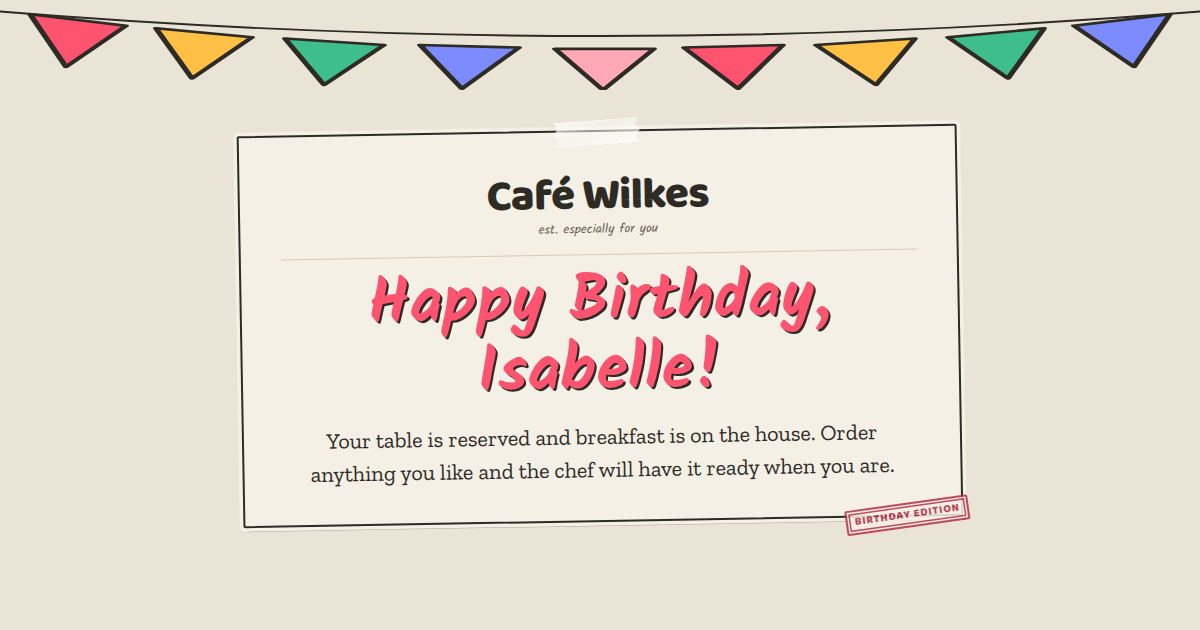
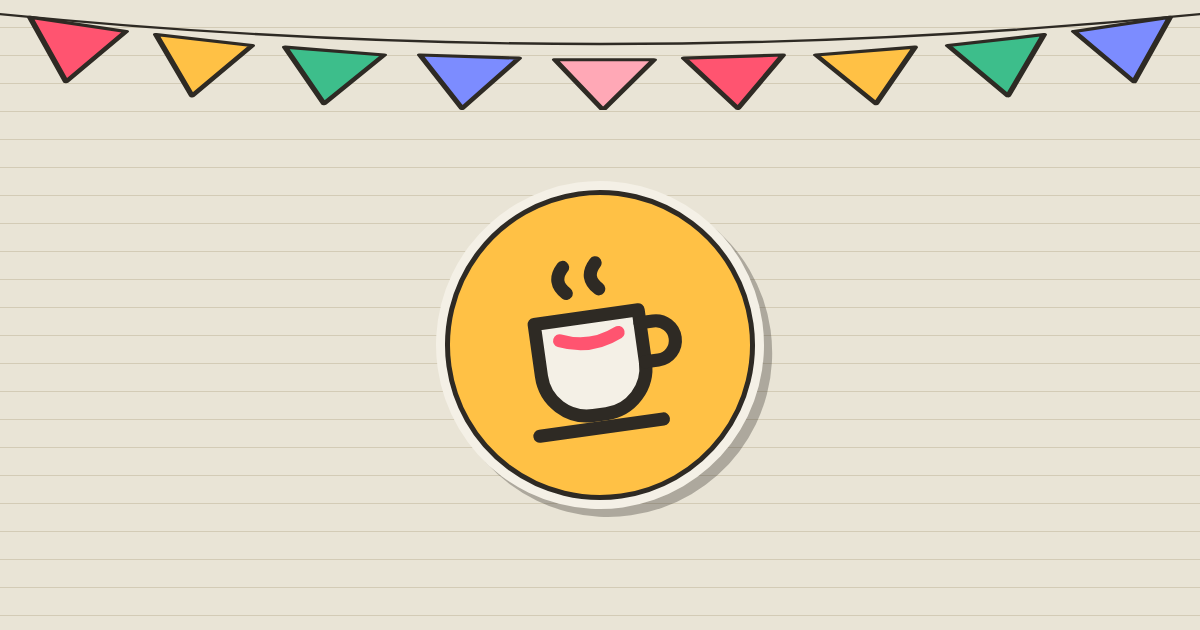
feat: Styling

diff --git a/frontend/menu.js b/frontend/menu.js
@@ -5,54 +5,54 @@ const GRIDDLE_TOPPINGS = {
 };
 
 export const DRINKS = [
-  { id: 'vanilla-latte', name: 'Vanilla Latte', doodle: 'cup', price: [1, 'kiss'] },
-  { id: 'iced-vanilla-latte', name: 'Iced Vanilla Latte', doodle: 'iced', price: [1, 'kiss'] },
-  { id: 'raspberry-mocha', name: 'Raspberry Mocha Latte', doodle: 'cup', price: [2, 'kiss'] },
-  { id: 'iced-raspberry-mocha', name: 'Iced Raspberry Mocha Latte', doodle: 'iced', price: [2, 'kiss'] },
-  { id: 'acv-tea', name: 'Apple Cider Vinegar Tea', desc: 'In case you’re feeling a bit off', doodle: 'tea', price: [1, 'hug'] },
-  { id: 'cappuccino', name: 'Cappuccino', doodle: 'cup', price: [1, 'kiss'] },
-  { id: 'mimosa', name: 'Mimosa', desc: 'Prosecco & orange juice', doodle: 'flute', price: [1, 'slow dance'] },
-  { id: 'aperol-spritz', name: 'Aperol Spritz', desc: 'Aperol, prosecco & soda', doodle: 'spritz', price: [1, 'slow dance'] },
+  { id: 'vanilla-latte', name: 'Vanilla Latte', doodle: { name: 'cup', x: 84, tilt: 12, size: 38 }, price: [1, 'kiss'] },
+  { id: 'iced-vanilla-latte', name: 'Iced Vanilla Latte', price: [1, 'kiss'] },
+  { id: 'raspberry-mocha', name: 'Raspberry Mocha Latte', price: [2, 'kiss'] },
+  { id: 'iced-raspberry-mocha', name: 'Iced Raspberry Mocha Latte', doodle: { name: 'iced', x: 20, tilt: -10, size: 34 }, price: [2, 'kiss'] },
+  { id: 'acv-tea', name: 'Apple Cider Vinegar Tea', desc: 'In case you’re feeling a bit off', price: [1, 'hug'] },
+  { id: 'cappuccino', name: 'Cappuccino', price: [1, 'kiss'] },
+  { id: 'mimosa', name: 'Mimosa', desc: 'Prosecco & orange juice', price: [1, 'slow dance'] },
+  { id: 'aperol-spritz', name: 'Aperol Spritz', desc: 'Aperol, prosecco & soda', doodle: { name: 'spritz', x: 62, tilt: 8, size: 40 }, price: [1, 'slow dance'] },
 ];
 
 export const SECTIONS = [
   {
-    id: 'sweet', title: 'Sweet', fill: 'var(--blossom)', doodle: 'pancakes', note: 'Pick as many as you like',
+    id: 'sweet', title: 'Sweet', fill: 'var(--blossom)', note: 'Pick as many as you like',
     items: [
-      { id: 'pancakes', name: 'Pancakes', doodle: 'pancakes', price: [3, 'kiss'], options: [GRIDDLE_TOPPINGS] },
-      { id: 'waffles', name: 'Waffles', doodle: 'waffle', price: [3, 'kiss'], options: [GRIDDLE_TOPPINGS] },
-      { id: 'crepes', name: 'Crêpes', doodle: 'crepe', price: [3, 'kiss'], options: [GRIDDLE_TOPPINGS] },
-      { id: 'french-toast', name: 'French Toast', doodle: 'frenchToast', price: [3, 'kiss'], options: [GRIDDLE_TOPPINGS] },
+      { id: 'pancakes', name: 'Pancakes', doodle: { name: 'pancakes', x: 88, tilt: -8, size: 40 }, price: [3, 'kiss'], options: [GRIDDLE_TOPPINGS] },
+      { id: 'waffles', name: 'Waffles', price: [3, 'kiss'], options: [GRIDDLE_TOPPINGS] },
+      { id: 'crepes', name: 'Crêpes', doodle: { name: 'crepe', x: 32, tilt: 14, size: 32 }, price: [3, 'kiss'], options: [GRIDDLE_TOPPINGS] },
+      { id: 'french-toast', name: 'French Toast', price: [3, 'kiss'], options: [GRIDDLE_TOPPINGS] },
     ],
   },
   {
-    id: 'bakery', title: 'Bakery Case', fill: 'var(--marigold)', doodle: 'croissant', note: 'Not homemade',
+    id: 'bakery', title: 'Bakery Case', fill: 'var(--marigold)', note: 'Not homemade',
     items: [
-      { id: 'cinnamon-buns', name: 'Cinnamon Buns', doodle: 'bun', price: [1, 'hug'], storeBought: true },
-      { id: 'croissant', name: 'Plain Croissant', doodle: 'croissant', price: [1, 'hug'], storeBought: true },
-      { id: 'choc-croissant', name: 'Chocolate Croissant', doodle: 'croissant', price: [1, 'hug'], storeBought: true },
+      { id: 'cinnamon-buns', name: 'Cinnamon Buns', price: [1, 'hug'], storeBought: true },
+      { id: 'croissant', name: 'Plain Croissant', price: [1, 'hug'], storeBought: true },
+      { id: 'choc-croissant', name: 'Chocolate Croissant', doodle: { name: 'croissant', x: 72, tilt: -6, size: 38 }, price: [1, 'hug'], storeBought: true },
     ],
   },
   {
-    id: 'savoury', title: 'Savoury', fill: 'var(--jade)', doodle: 'egg', note: 'Pick as many as you like',
+    id: 'savoury', title: 'Savoury', fill: 'var(--jade)', note: 'Pick as many as you like',
     items: [
       {
-        id: 'toast', name: 'Toast', doodle: 'toast', price: [1, 'kiss'],
+        id: 'toast', name: 'Toast', price: [1, 'kiss'],
         options: [{ key: 'spread', label: 'Topped with', type: 'multi', required: true, missing: 'Toast: pick a topping (plain counts)',
           choices: ['Avocado', 'Nutella', 'Peanut butter', 'Fruit jelly', 'Plain'] }],
       },
       {
-        id: 'eggs', name: 'Eggs', doodle: 'egg', price: [2, 'kiss'],
+        id: 'eggs', name: 'Eggs', doodle: { name: 'egg', x: 14, tilt: 10, size: 36 }, price: [2, 'kiss'],
         options: [{ key: 'style', label: 'How would you like them?', type: 'text', required: true,
           missing: 'Eggs: how would you like them cooked?', placeholder: 'e.g. two, over easy' }],
       },
       {
-        id: 'benny', name: 'Eggs Benedict', desc: 'Poached eggs, hollandaise, English muffin', doodle: 'benny', price: [1, 'foot rub'],
+        id: 'benny', name: 'Eggs Benedict', desc: 'Poached eggs, hollandaise, English muffin', price: [1, 'foot rub'],
         options: [{ key: 'toppings', label: 'Toppings', type: 'multi',
           choices: ['Ham', 'Bacon', 'Avocado', 'Tomato', 'Spinach', 'Extra hollandaise'] }],
       },
       {
-        id: 'sandwich', name: 'Breakfast Sandwich', doodle: 'sandwich', price: [2, 'hug'],
+        id: 'sandwich', name: 'Breakfast Sandwich', price: [2, 'hug'],
         options: [
           { key: 'bread', label: 'On a', type: 'single', required: true, missing: 'Breakfast Sandwich: pick a bread',
             choices: ['English muffin', 'Bagel', 'Croissant'] },
@@ -60,33 +60,33 @@ export const SECTIONS = [
         ],
       },
       {
-        id: 'bagel', name: 'Bagel & Cream Cheese', doodle: 'bagel', price: [1, 'hug'],
+        id: 'bagel', name: 'Bagel & Cream Cheese', price: [1, 'hug'],
         options: [{ key: 'extras', label: 'Extras', type: 'multi',
           choices: ['Tomato', 'Cucumber', 'Red onion', 'Everything seasoning'] }],
       },
       {
-        id: 'burrito', name: 'Breakfast Burrito', doodle: 'burrito', price: [1, 'back scratch'],
+        id: 'burrito', name: 'Breakfast Burrito', doodle: { name: 'burrito', x: 84, tilt: -14, size: 38 }, price: [1, 'back scratch'],
         options: [{ key: 'fillings', label: 'Fillings', type: 'multi',
           choices: ['Egg', 'Cheese', 'Hashbrown', 'Bacon', 'Sausage', 'Avocado', 'Salsa', 'Sour cream', 'Hot sauce'] }],
       },
     ],
   },
   {
-    id: 'sides', title: 'Sides', fill: 'var(--peri)', doodle: 'bacon', note: 'Pile them on',
+    id: 'sides', title: 'Sides', fill: 'var(--peri)', note: 'Pile them on',
     items: [
-      { id: 'hashbrowns', name: 'Hashbrowns', doodle: 'hashbrown', price: [1, 'kiss'] },
-      { id: 'sausage', name: 'Sausage', doodle: 'sausage', price: [1, 'kiss'] },
-      { id: 'bacon', name: 'Bacon', doodle: 'bacon', price: [1, 'kiss'] },
+      { id: 'hashbrowns', name: 'Hashbrowns', price: [1, 'kiss'] },
+      { id: 'sausage', name: 'Sausage', price: [1, 'kiss'] },
+      { id: 'bacon', name: 'Bacon', doodle: { name: 'bacon', x: 42, tilt: 8, size: 34 }, price: [1, 'kiss'] },
     ],
   },
   {
-    id: 'girl', title: 'Girl Breakfast', fill: 'var(--coral)', doodle: 'pint', note: 'No judgement here',
+    id: 'girl', title: 'Girl Breakfast', fill: 'var(--coral)', note: 'No judgement here',
     items: [
-      { id: 'ben-jerrys', name: "Ben & Jerry's", doodle: 'pint', price: [1, 'cuddle'] },
-      { id: 'sv-chips', name: 'Salt & Vinegar Chips', doodle: 'chips', price: [1, 'cuddle'] },
-      { id: 'takis', name: 'Takis', doodle: 'chips', price: [1, 'cuddle'] },
-      { id: 'oreos', name: 'Oreos', doodle: 'oreo', price: [1, 'cuddle'] },
-      { id: 'digestives', name: 'Digestive Cookies', doodle: 'cookie', price: [1, 'cuddle'] },
+      { id: 'ben-jerrys', name: "Ben & Jerry's", doodle: { name: 'pint', x: 78, tilt: -10, size: 38 }, price: [1, 'cuddle'] },
+      { id: 'sv-chips', name: 'Salt & Vinegar Chips', price: [1, 'cuddle'] },
+      { id: 'takis', name: 'Takis', doodle: { name: 'chips', x: 24, tilt: 12, size: 32 }, price: [1, 'cuddle'] },
+      { id: 'oreos', name: 'Oreos', price: [1, 'cuddle'] },
+      { id: 'digestives', name: 'Digestive Cookies', price: [1, 'cuddle'] },
     ],
   },
 ];

diff --git a/frontend/doodles.js b/frontend/doodles.js
@@ -6,16 +6,10 @@ export const DOODLES = {
   cup: svg(`<path d="M12 3.5q-2 2 0 4M17 3.5q-2 2 0 4"/>
     <path d="M6.5 11.5h16v8a7 7 0 0 1-7 7h-2a7 7 0 0 1-7-7z" fill="#e3c19a"/>
     <path d="M22.5 13.5h2a3 3 0 0 1 0 6h-2"/><path d="M5 28.5h19"/>`),
-  tea: svg(`<path d="M5.5 13.5h18v4a8 8 0 0 1-8 8h-2a8 8 0 0 1-8-8z" fill="#f4f0e6"/>
-    <path d="M23.5 15h1.5a2.8 2.8 0 0 1 0 5.6h-2"/><path d="M14 13.5c0-4 3-6 6-5.5v5"/>
-    <rect x="17.5" y="5.5" width="5" height="5" fill="#3dbe8b"/><path d="M4 28.5h21"/>`),
   iced: svg(`<path d="M20 2.5l-2.5 12" stroke="#ff5470" stroke-width="2.6"/>
     <path d="M8 9.5h16l-2 18h-12z" fill="#dcebf0"/>
     <rect x="11" y="15" width="4.5" height="4.5" fill="#fff" transform="rotate(-10 13 17)"/>
     <rect x="16.5" y="19" width="4.5" height="4.5" fill="#fff" transform="rotate(12 18 21)"/>`),
-  flute: svg(`<path d="M11.5 3.5h9l-1 11a3.5 3.5 0 0 1-7 0z" fill="#ffc145"/>
-    <path d="M16 18v9M12 28h8"/><circle cx="15" cy="9" r=".8" fill="#2e2a24" stroke="none"/>
-    <circle cx="17.5" cy="12" r=".8" fill="#2e2a24" stroke="none"/>`),
   spritz: svg(`<path d="M8.5 6.5h15q0 11-7.5 11.5q-7.5-.5-7.5-11.5z" fill="#ff8a3d"/>
     <path d="M16 18v8.5M11 27.5h10"/><circle cx="22" cy="6" r="3.5" fill="#ffc145"/><path d="M22 3v6M19 6h6"/>`),
   pancakes: svg(`<rect x="4.5" y="22.5" width="23" height="5" rx="2.5" fill="#f1c27d"/>
@@ -23,45 +17,18 @@ export const DOODLES = {
     <rect x="6.5" y="12.5" width="19" height="5" rx="2.5" fill="#f1c27d"/>
     <path d="M9 13c3-1 9-1 13 0v3.5q-1 1.5-2 0v-1.5q-1 3-2.2 0" fill="#b86a2c"/>
     <rect x="13" y="8" width="6" height="4.5" fill="#ffc145"/>`),
-  waffle: svg(`<rect x="5" y="5" width="22" height="22" rx="3" fill="#f1c27d" transform="rotate(-6 16 16)"/>
-    <g transform="rotate(-6 16 16)"><path d="M12.3 5v22M19.7 5v22M5 12.3h22M5 19.7h22"/></g>`),
   crepe: svg(`<path d="M4 25.5h24L16 7z" fill="#f5d7a1"/><path d="M16 7l-3 18.5"/>
     <circle cx="21" cy="21" r="2.5" fill="#ff5470"/>`),
-  frenchToast: svg(`<path d="M7 27V14a6 6 0 0 1 3-9h12a6 6 0 0 1 3 9v13z" fill="#e6a85c"/>
-    <path d="M10 11h12" stroke-dasharray="0 4"/><path d="M11 16h10v3q-1 2-2 0v-1q-1 3-2.5 0" fill="#b86a2c"/>`),
-  toast: svg(`<path d="M7 27V14a6 6 0 0 1 3-9h12a6 6 0 0 1 3 9v13z" fill="#e6b36b"/>
-    <path d="M10.5 25.5v-10a4 4 0 0 1 2-6.5h7a4 4 0 0 1 2 6.5v10z" fill="#f6dfae" stroke="none"/>`),
-  bun: svg(`<circle cx="16" cy="16" r="11.5" fill="#d9a066"/>
-    <path d="M16 16a1.8 1.8 0 1 1 1.8 1.8a4.2 4.2 0 1 1-4.2-4.2a6.6 6.6 0 1 1 6.6 6.6"/>
-    <path d="M8 9q3-2 5 0t5 0t5 1" stroke="#fff" stroke-width="2.4"/>`),
   croissant: svg(`<path d="M3.5 21Q16 3 28.5 21q-6-3-12.5-2.5Q9.5 18 3.5 21z" fill="#e8a857"/>
     <path d="M10.5 12.5l2.5 6M16 10v8.5M21.5 12.5l-2.5 6"/>`),
   egg: svg(`<path d="M5.5 16q0-9 9-9.5q5-3 9.5 1.5q4.5 4 2.5 9.5q.5 8-8 8.5q-5 3-9.5-1q-4-2-3.5-9z" fill="#fffdf6"/>
     <circle cx="16" cy="16" r="4.5" fill="#ffc145"/>`),
-  benny: svg(`<ellipse cx="16" cy="24" rx="11.5" ry="4" fill="#e6b36b"/>
-    <path d="M7.5 22.5q0-10 8.5-10t8.5 10z" fill="#fffdf6"/><path d="M9 17q7-7 14 0q-1 3-2.5 0q-2 3-3.5 0q-2 3-4 0q-2 2-4 0z" fill="#ffc145"/>`),
-  sandwich: svg(`<path d="M5 14.5q0-8 11-8t11 8z" fill="#e6b36b"/>
-    <path d="M4 17l3-2.5 3 2.5 3-2.5 3 2.5 3-2.5 3 2.5 3-2.5 3 2.5" stroke="#3dbe8b" stroke-width="2.4"/>
-    <path d="M5 19.5h22l-4 3z" fill="#ffc145"/><rect x="5" y="22.5" width="22" height="5" rx="2.5" fill="#e6b36b"/>`),
-  bagel: svg(`<circle cx="16" cy="16" r="11.5" fill="#d9a066"/><circle cx="16" cy="16" r="3.5" fill="#f4f0e6"/>
-    <path d="M9 11l1 1M20 8.5l1.2.4M23 18l-.5 1.2M12 22l1 .8" stroke-width="1.6"/>`),
   burrito: svg(`<g transform="rotate(-28 16 16)"><rect x="3.5" y="10.5" width="25" height="11" rx="5.5" fill="#f1d9a8"/>
     <ellipse cx="25.5" cy="16" rx="3" ry="5.5" fill="#3dbe8b"/><path d="M10 11v10M15 11v10" stroke-width="1.4"/></g>`),
-  hashbrown: svg(`<rect x="4.5" y="8.5" width="23" height="15" rx="6" fill="#e0a84e" transform="rotate(-8 16 16)"/>
-    <path d="M9 13l3 4M13 11.5l4 5M18 11l3.5 4.5M21.5 11.5l2 2.5" stroke-width="1.6"/>`),
-  sausage: svg(`<rect x="3.5" y="11.5" width="25" height="9" rx="4.5" fill="#b5563e" transform="rotate(-20 16 16)"/>
-    <path d="M9 17.5q5-4 12-5" stroke="#f4f0e6" stroke-width="1.6" transform="rotate(-6 16 16)"/>`),
   bacon: svg(`<path d="M3.5 12q4-4 8 0t8 0t9-1v8q-5 1-9 1t-8 0t-8 0z" fill="#ff5470"/>
     <path d="M5 16.5q3.5-3 7 0t7 0t8-.8" stroke="#fbe3e3" stroke-width="1.8"/>`),
   pint: svg(`<path d="M7.5 11.5h17l-2 16h-13z" fill="#ffa8b6"/><rect x="6.5" y="7.5" width="19" height="4" rx="1" fill="#f4f0e6"/>
     <path d="M9 17.5h14l-.6 5h-12.8z" fill="#fff"/>`),
   chips: svg(`<path d="M8.5 4.5h15l-1 3 1 3v14l1 3h-17l1-3v-14l-1-3z" fill="#7c8cff"/>
     <circle cx="16" cy="17" r="4" fill="#ffc145"/><path d="M8.5 7.5h15M8.5 24.5h15" stroke-dasharray="1 2" stroke-width="1.4"/>`),
-  cookie: svg(`<circle cx="16" cy="16" r="11.5" fill="#d9a066"/>
-    <circle cx="12" cy="12" r="1.3" fill="#2e2a24" stroke="none"/><circle cx="19" cy="11" r="1.3" fill="#2e2a24" stroke="none"/>
-    <circle cx="20" cy="19" r="1.3" fill="#2e2a24" stroke="none"/><circle cx="12.5" cy="19.5" r="1.3" fill="#2e2a24" stroke="none"/>`),
-  oreo: svg(`<rect x="4.5" y="9.5" width="23" height="6" rx="3" fill="#3b2f2a"/><rect x="5.5" y="15.5" width="21" height="3" fill="#fffdf6"/>
-    <rect x="4.5" y="18.5" width="23" height="6" rx="3" fill="#3b2f2a"/>`),
-  bell: svg(`<path d="M5.5 23.5a10.5 10.5 0 0 1 21 0z" fill="#ffc145"/><path d="M3.5 26.5h25"/>
-    <circle cx="16" cy="10.5" r="1.8" fill="#2e2a24"/><path d="M11 17.5a6 6 0 0 1 3-3" stroke="#fff"/>`),
 };

diff --git a/frontend/app.js b/frontend/app.js
@@ -1,6 +1,6 @@
-import { NTFY_TOPIC, STORAGE_KEY } from './config.js';
-import { DOODLES } from './doodles.js';
-import { DRINKS, SECTIONS, SERVE_TIMES, PLACES, ITEMS, DRINKS_BY_ID } from './menu.js';
+import { NTFY_TOPIC, STORAGE_KEY } from './config.js?v=__BUILD__';
+import { DOODLES } from './doodles.js?v=__BUILD__';
+import { DRINKS, SECTIONS, SERVE_TIMES, PLACES, ITEMS, DRINKS_BY_ID } from './menu.js?v=__BUILD__';
 
 const $ = sel => document.querySelector(sel);
 const esc = s => String(s).replace(/[&<>"']/g, c => ({ '&': '&amp;', '<': '&lt;', '>': '&gt;', '"': '&quot;', "'": '&#39;' }[c]));
@@ -95,6 +95,10 @@ function chipRow(group, choices, selected, fill, narrow = false) {
 }
 
 function itemHtml(item, fill, kind) {
+  // Hand-placed decoration in the blank ruled line above the dish.
+  const d = item.doodle;
+  const deco = d === undefined ? ''
+    : `<span class="deco" style="left:${d.x}%;--tilt:${d.tilt}deg;--size:${d.size}px">${DOODLES[d.name]}</span>`;
   const on = kind === 'drink' ? order.drink === item.id : item.id in order.items;
   const picks = on && kind === 'food' ? order.items[item.id] : blankPicks(item);
   const opts = (item.options ?? []).map(opt => {
@@ -109,9 +113,9 @@ function itemHtml(item, fill, kind) {
   }).join('');
   return `
     <div class="item${on ? ' on' : ''}" id="item-${item.id}" style="--fill:${fill}">
+      ${deco}
       <button type="button" class="item-head" data-${kind}="${item.id}" aria-pressed="${on}">
         <span class="check">${CHECK_SVG}</span>
-        <span class="doodle">${DOODLES[item.doodle]}</span>
         <span class="item-line">
           <span class="item-name"><span class="hl">${esc(item.name)}</span></span>
           <span class="leader"></span>
@@ -124,12 +128,11 @@ function itemHtml(item, fill, kind) {
     </div>`;
 }
 
-function sectionHtml(id, title, note, fill, doodle, body) {
+function sectionHtml(id, title, note, fill, body) {
   return `
     <section class="menu-sec" id="${id}">
       <header class="sec-head">
         <h2 class="label" style="--fill:${fill}">${esc(title)}</h2>
-        <span class="sec-doodle">${DOODLES[doodle]}</span>
         <span class="sec-note hand">${esc(note)}</span>
       </header>
       ${body}
@@ -138,11 +141,11 @@ function sectionHtml(id, title, note, fill, doodle, body) {
 
 function renderMenu() {
   $('#menu-body').innerHTML = [
-    sectionHtml('sec-drinks', 'To Drink', 'Pick one', 'var(--marigold)', 'cup',
+    sectionHtml('sec-drinks', 'To Drink', 'Pick one', 'var(--marigold)',
       DRINKS.map(d => itemHtml(d, 'var(--marigold)', 'drink')).join('')),
-    ...SECTIONS.map(s => sectionHtml(`sec-${s.id}`, s.title, s.note, s.fill, s.doodle,
+    ...SECTIONS.map(s => sectionHtml(`sec-${s.id}`, s.title, s.note, s.fill,
       s.items.map(i => itemHtml(i, s.fill, 'food')).join(''))),
-    sectionHtml('sec-service', 'Service', 'The fine print', 'var(--peri)', 'bell', `
+    sectionHtml('sec-service', 'Service', 'The fine print', 'var(--peri)', `
       <div class="service snap"><div class="snap-inner">
         <div class="opt"><span class="opt-label">When shall we serve?</span>
           ${chipRow('time', SERVE_TIMES, c => order.time === c, 'var(--marigold)', true)}</div>

diff --git a/frontend/styles.css b/frontend/styles.css
@@ -199,18 +199,20 @@ hr.rule { border: 0; height: 0; border-top: 1.5px solid var(--rule); margin: 14p
   box-shadow: var(--cut), var(--lift); transform: rotate(-1.5deg);
 }
 .menu-sec:nth-child(even) .sec-head .label { transform: rotate(1.2deg); }
-.sec-doodle { flex: none; margin-bottom: -2px; width: 40px; height: 40px; transform: rotate(9deg); }
-.menu-sec:nth-child(even) .sec-doodle { transform: rotate(-7deg); }
-.sec-doodle svg, .doodle svg { display: block; width: 100%; height: 100%; }
 .sec-note { margin-left: auto; text-align: right; font-size: var(--t-md); line-height: 28px; }
 
-.item { display: flow-root; margin-bottom: 28px; scroll-margin-top: 112px; }
+.item { position: relative; display: flow-root; margin-bottom: 28px; scroll-margin-top: 112px; }
+.deco {
+  position: absolute; top: calc(-14px - var(--size) / 2); width: var(--size); height: var(--size);
+  pointer-events: none; transform: translateX(-50%) rotate(var(--tilt));
+}
+.deco svg { display: block; width: 100%; height: 100%; }
 .item:last-child { margin-bottom: 0; }
 
 /* The padding / negative margin pair makes a 56px tap target while the row still only
    takes up its 28px lines. flow-root on .item stops that margin collapsing outward. */
 .item-head {
-  display: grid; grid-template-columns: 22px 28px minmax(0, 1fr); column-gap: 9px;
+  display: grid; grid-template-columns: 22px minmax(0, 1fr); column-gap: 11px;
   width: 100%; padding: 14px 0; margin: -14px 0; line-height: 28px;
 }
 .check {
@@ -223,13 +225,11 @@ hr.rule { border: 0; height: 0; border-top: 1.5px solid var(--rule); margin: 14p
 }
 .check svg { width: 17px; height: 17px; }
 .item.on .check { background: var(--fill); border-color: var(--ink); color: var(--ink); transform: rotate(-6deg); }
-.doodle { grid-row: 1; grid-column: 2; width: 28px; height: 28px; transition: transform var(--up); }
-.item.on .doodle { transform: rotate(-9deg) scale(1.12); }
 
 /* Fixed height: baseline-aligning three different fonts otherwise grows the line past 28px. */
-.item-line { grid-row: 1; grid-column: 3; display: flex; align-items: baseline; min-width: 0; height: 28px; }
+.item-line { grid-row: 1; grid-column: 2; display: flex; align-items: baseline; min-width: 0; height: 28px; }
 .item-name { flex: 0 1 auto; min-width: 0; font-weight: 700; font-size: 16px; white-space: nowrap; overflow: hidden; text-overflow: ellipsis; }
-.item-desc { grid-row: 2; grid-column: 3; font-size: var(--t-sm); color: var(--ink-soft); }
+.item-desc { grid-row: 2; grid-column: 2; font-size: var(--t-sm); color: var(--ink-soft); }
 
 /* Highlighter swipe: the stroke is the element's own background, so it wraps with the name. */
 .hl {

diff --git a/frontend/index.html b/frontend/index.html
@@ -9,15 +9,15 @@
   <meta name="description" content="Happy birthday, Isabelle! Breakfast is on the house.">
   <meta property="og:title" content="Café Wilkes · Birthday Menu">
   <meta property="og:description" content="Happy birthday, Isabelle! Breakfast is on the house.">
-  <meta property="og:image" content="https://brennanwilkes.github.io/cafe-wilkes/og.png">
+  <meta property="og:image" content="https://brennanwilkes.github.io/cafe-wilkes/og.png?v=__BUILD__">
   <meta property="og:type" content="website">
-  <link rel="icon" href="icon.png">
-  <link rel="apple-touch-icon" href="icon.png">
+  <link rel="icon" href="icon.png?v=__BUILD__">
+  <link rel="apple-touch-icon" href="icon.png?v=__BUILD__">
   <link rel="preconnect" href="https://fonts.googleapis.com">
   <link rel="preconnect" href="https://fonts.gstatic.com" crossorigin>
   <link href="https://fonts.googleapis.com/css2?family=Zilla+Slab:wght@400;500;600;700&family=Kalam:wght@400;700&family=Baloo+2:wght@700;800&family=Courier+Prime:wght@400;700&display=swap" rel="stylesheet">
-  <link rel="stylesheet" href="styles.css">
-  <script type="module" src="app.js"></script>
+  <link rel="stylesheet" href="styles.css?v=__BUILD__">
+  <script type="module" src="app.js?v=__BUILD__"></script>
 </head>
 <body>
 

diff --git a/CLAUDE.md b/CLAUDE.md
@@ -22,15 +22,20 @@ restaurant-style, Brennan gets a push notification. Live at https://brennanwilke
   unit for "Total due". Required options carry a `missing` string used as the validation toast.
 - `app.js`: hash router (`#welcome`, `#menu`, `#review`, `#thanks`), rendering, events, ntfy send.
   `orderLines()` is the single source for receipt, thank-you list and ntfy message.
-- `doodles.js`: simple inline-SVG line doodles (32×32, ink stroke + flat fill), keyed by `doodle` in menu.js.
+- `doodles.js`: simple inline-SVG line doodles (32×32, ink stroke + flat fill). Only about a dozen dishes get one, via
+  `doodle: { name, x, tilt, size }` in menu.js. Each is hand-placed in the blank ruled line above its dish, and the
+  placements are deliberately varied (user: never a column of icons, not every row).
 - **Ruled-paper grid (menu):** rules every 28px. Loose text is always exactly one 28px line (`.item-line` has a
   fixed height, because baseline-aligning three fonts grows it to 29px and the error compounds). Vertical spacing is
   only 0 or multiples of 28. Everything else is an opaque `.snap` card whose height a ResizeObserver in app.js rounds
   up to whole lines. Selected dishes get a highlighter swipe (`.hl` background-size), not a box.
 - `styles.css`: meowmap's "scrapbook tactile" tokens/stickers copied over (light-only). Dashed edges are
   gradient layers, never `border-style: dashed`, and never set the `background` shorthand on `.chip`/`.btn-ghost`.
-- `og.png` (1200×630 link preview) and `icon.png` were screenshotted from the live page in headless Brave.
-  Regenerate them if the welcome card changes. The `og:image` URL in `index.html` is absolute.
+- **Cache busting:** Pages serves everything with `max-age=600`. Every asset URL, including the ES module imports
+  in app.js, carries `?v=__BUILD__`, which the deploy workflow seds to the short commit SHA. A new local import needs it too.
+- `og.png` (1200×630 text-message link preview) and `icon.png` (favicon/touch icon, 192²) are the coffee-cup doodle on
+  a marigold sticker. They were rendered from a scratch HTML page via headless Brave over CDP; the `brave --screenshot` CLI hangs.
+  The `og:image` URL in `index.html` is absolute.
 
 ## Testing
 No test suite. Drive it in headless Brave via raw CDP (Node 22 global `WebSocket`; npm installs were denied),
